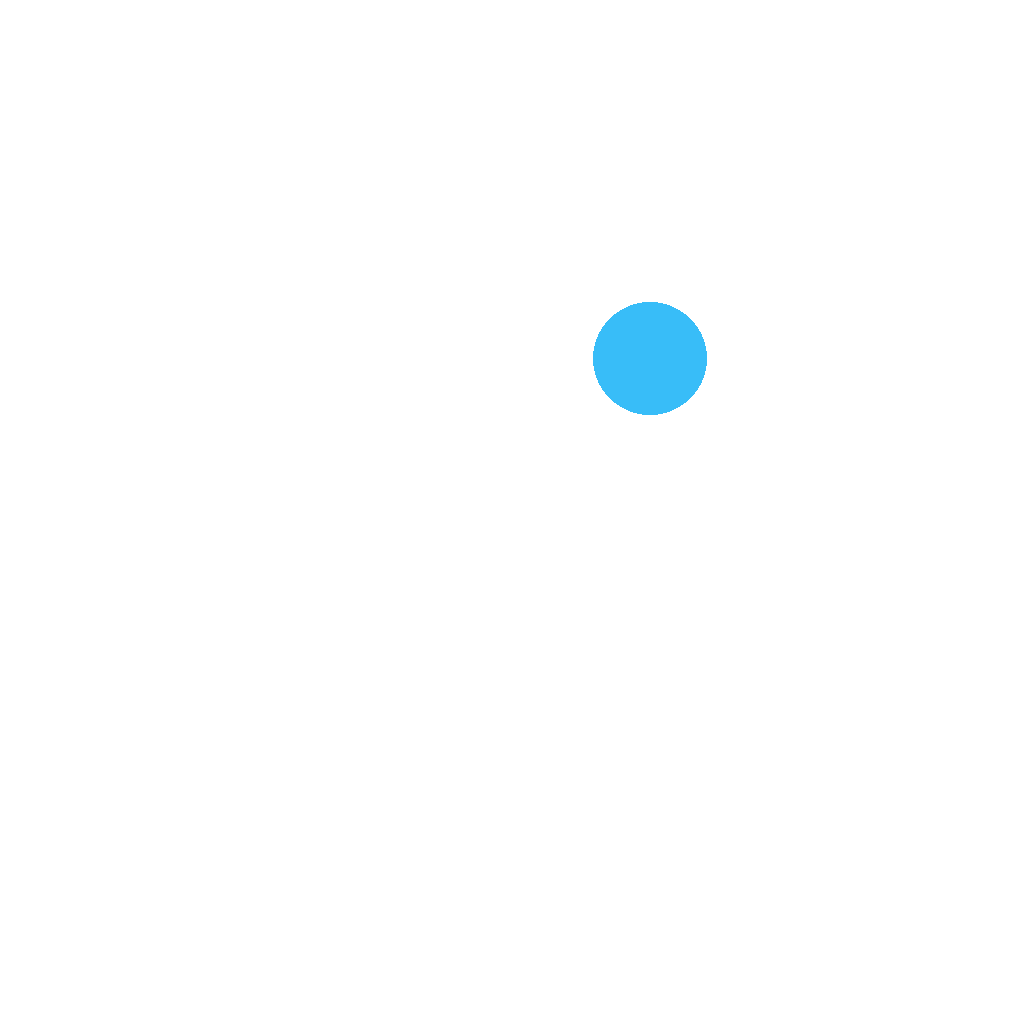
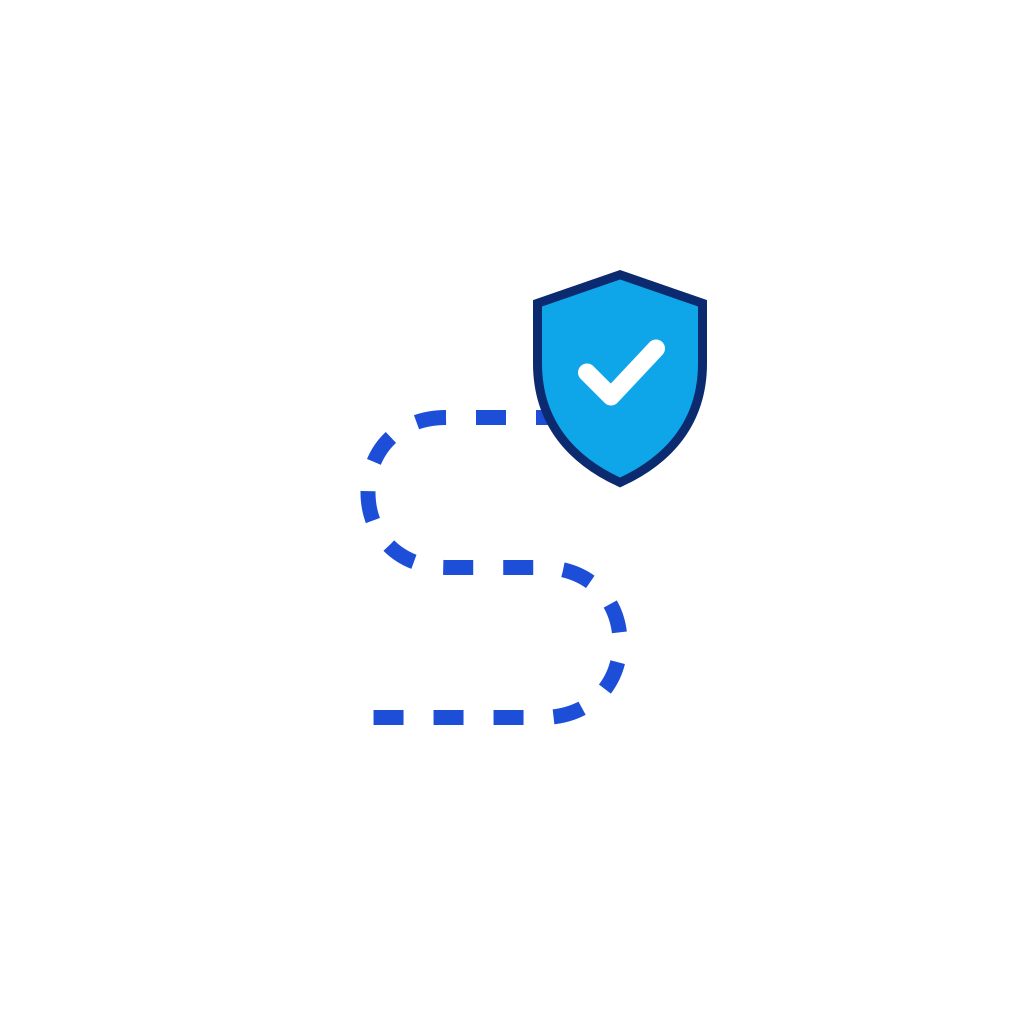
v0.11.0: ícono nuevo de SIRV GPS (#9)
Claude-Session: https://claude.ai/code/session_01MdpFb3j9zBvg78afG8a4Aw

diff --git a/lib/brand.dart b/lib/brand.dart
@@ -32,44 +32,37 @@ const double kRadiusSheet = 16;
 RoundedRectangleBorder roundedShape(double r) =>
     RoundedRectangleBorder(borderRadius: BorderRadius.circular(r));
 
+/// Logo de SIRV GPS (el mismo dibujo del ícono de la app: la S como camino
+/// con un escudo). Fuente en assets/fuente/icono.svg.
 class BrandLogo extends StatelessWidget {
   final double size;
   const BrandLogo({super.key, this.size = 72});
 
   @override
   Widget build(BuildContext context) {
+    final radius = BorderRadius.circular(size * 0.23);
     return Container(
       width: size,
       height: size,
       decoration: BoxDecoration(
-        gradient: kBrandGradient,
-        borderRadius: BorderRadius.circular(size * 0.28),
+        borderRadius: radius,
         boxShadow: [
           BoxShadow(
-            color: kBrandBlue.withValues(alpha: 0.25),
+            color: kBrandDeep.withValues(alpha: 0.25),
             blurRadius: size * 0.12,
             offset: Offset(0, size * 0.04),
           ),
         ],
       ),
-      child: Stack(
-        alignment: Alignment.center,
-        children: [
-          Icon(Icons.location_on, color: Colors.white, size: size * 0.6),
-          Positioned(
-            right: size * 0.18,
-            top: size * 0.16,
-            child: Container(
-              width: size * 0.2,
-              height: size * 0.2,
-              decoration: BoxDecoration(
-                color: kBrandSky,
-                shape: BoxShape.circle,
-                border: Border.all(color: const Color(0xFF1E40AF), width: size * 0.03),
-              ),
-            ),
-          ),
-        ],
+      child: ClipRRect(
+        borderRadius: radius,
+        child: Image.asset(
+          'assets/logo.png',
+          width: size,
+          height: size,
+          fit: BoxFit.cover,
+          filterQuality: FilterQuality.medium,
+        ),
       ),
     );
   }

diff --git a/lib/config.dart b/lib/config.dart
@@ -6,7 +6,7 @@ const String kAppName = 'SIRV GPS';
 /// Versión de la app. En GitHub Actions se inyectan con --dart-define:
 /// APP_VERSION sale de pubspec.yaml y APP_BUILD es el número de compilación.
 const String kAppVersion =
-    String.fromEnvironment('APP_VERSION', defaultValue: '0.10.2');
+    String.fromEnvironment('APP_VERSION', defaultValue: '0.11.0');
 const String kAppBuild =
     String.fromEnvironment('APP_BUILD', defaultValue: 'local');
 const String kAppCommit = String.fromEnvironment('APP_COMMIT');

diff --git a/CHANGELOG.md b/CHANGELOG.md
@@ -14,6 +14,16 @@ y sube en cada compilación. Cada APK publicado se etiqueta como
 Cada versión necesita su sección `## X.Y.Z` en este archivo: sin ella la
 compilación falla. El texto de la sección aparece como "Novedades" en el release.
 
+## 0.11.0 – 2026-11-27
+
+- **Ícono nuevo de SIRV GPS**: la S dibujada como camino (blanco con línea
+  central azul) que termina en un escudo celeste con check, sobre azul
+  profundo. Ícono adaptativo de Android con la figura dentro de la zona
+  segura, para que no se corte en celulares que lo recortan en círculo.
+- El logo dentro de la app (inicio de sesión, barra superior del mapa,
+  Perfil y pantalla de carga) usa el mismo dibujo.
+- Los dibujos originales quedan en `assets/fuente/` (SVG).
+
 ## 0.10.2 – 2026-11-27
 
 - **Barras azules**: la barra superior del mapa (nombre y conexión) y la barra
